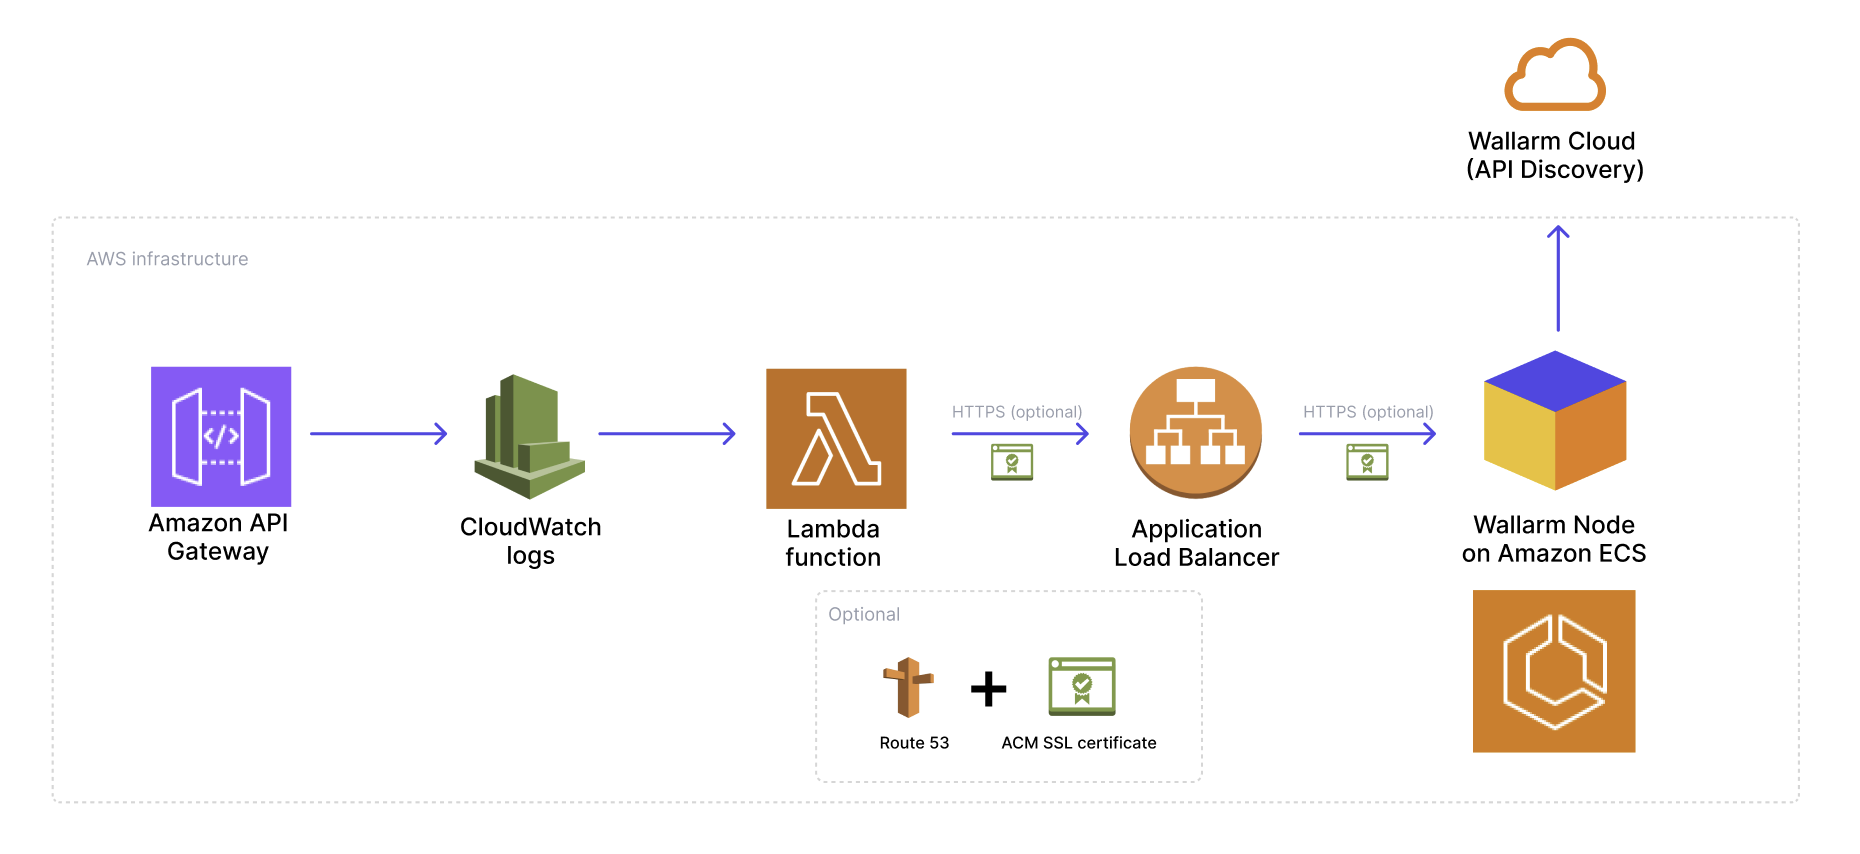
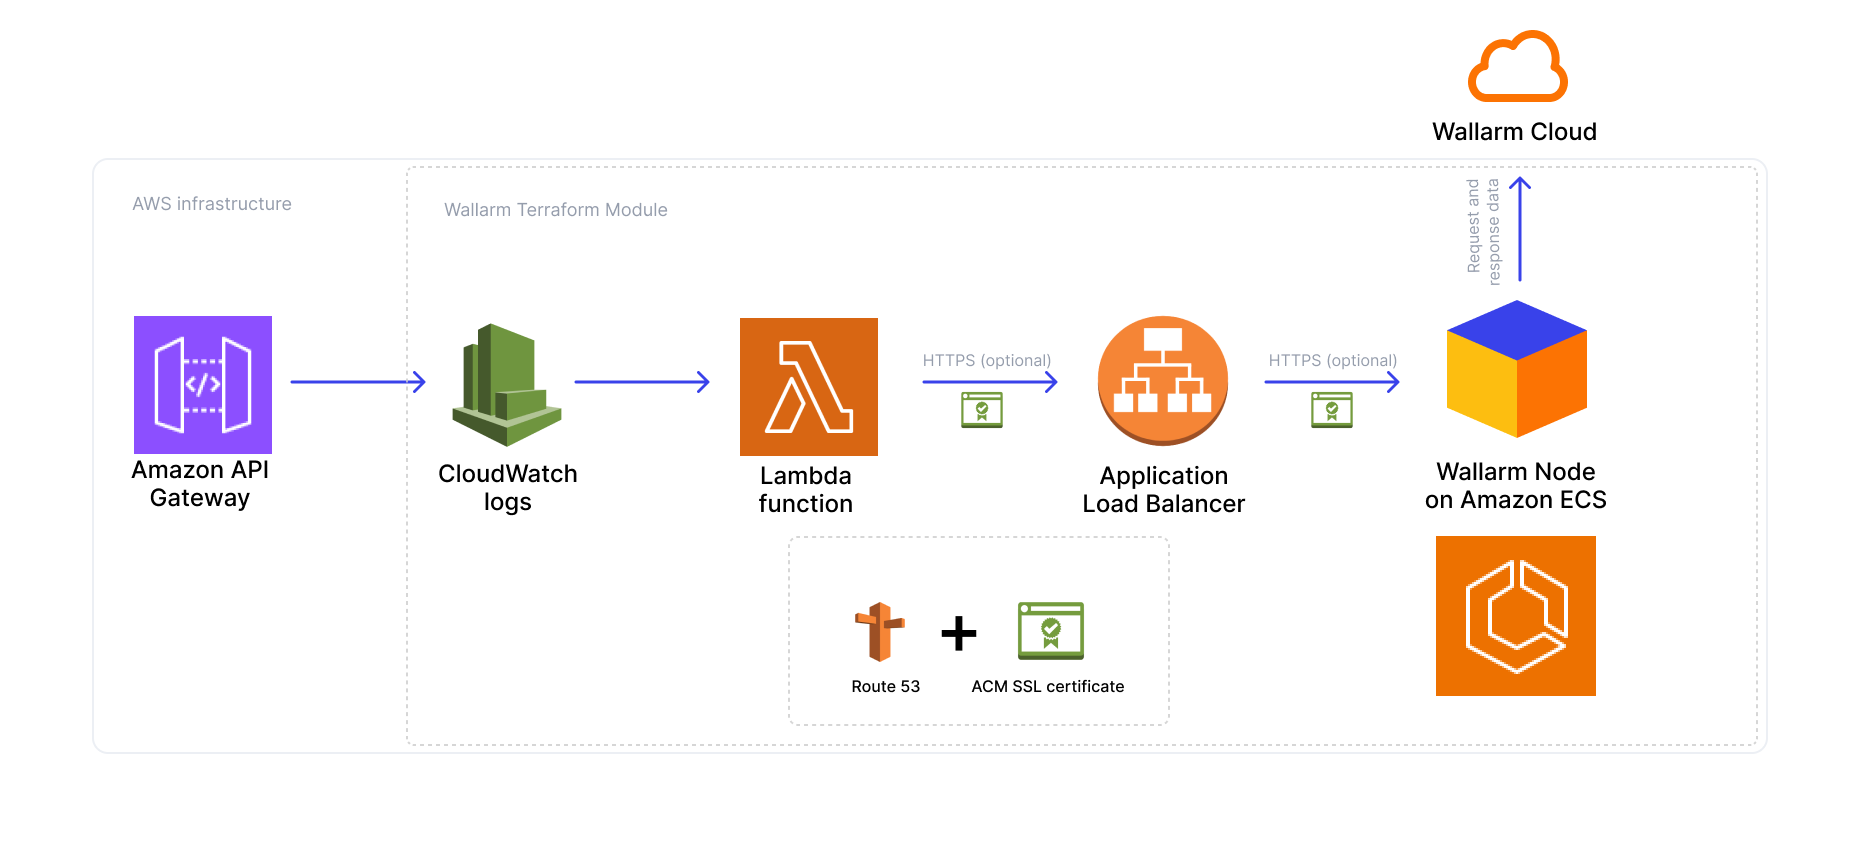
DOCS-3553 Fixed according to the comments

diff --git a/docs/latest/installation/connectors/aws-api-gateway.md b/docs/latest/installation/connectors/aws-api-gateway.md
@@ -1,6 +1,10 @@
 [api-discovery]:                ../../api-discovery/overview.md
 [api-inventory]:                ../../api-discovery/exploring.md
-[api-traffic]:                ../../api-discovery/overview.md#noise-detection
+[api-traffic]:                 ../../api-discovery/overview.md#noise-detection
+[native-node]:                 ../../installation/nginx-native-node-internals.md#native-node
+[native-node-versions]:        ../../updating-migrating/native-node/node-artifact-versions.md
+[native-node-logs]:           ../../admin-en/configure-logging.md
+
 
 # Wallarm Connector for Amazon API Gateway (API Discovery)
 
@@ -8,37 +12,51 @@ The Wallarm Connector for Amazon API Gateway automatically builds an [API invent
 
 ## How it works
 
-This connector does not inspect or block malicious requests. Instead, it uses a Lambda function to monitor CloudWatch logs from API Gateway, parse the log data, and forward relevant metadata to a Wallarm Native Node running on [Amazon Elastic Container Service](https://docs.aws.amazon.com/AmazonECS/latest/developerguide/Welcome.html) (Amazon ECS). The result is your API inventory.
+This connector does not inspect or block malicious requests. Instead, it uses a Lambda function to monitor CloudWatch logs from API Gateway, parse the log data, and forward relevant metadata to a Wallarm Native Node running on [Amazon Elastic Container Service](https://docs.aws.amazon.com/AmazonECS/latest/developerguide/Welcome.html) (Amazon ECS). The result is your [**API inventory**][api-inventory].
 
-The Terraform configuration deploys the Lambda function with [Amazon CloudWatch](https://docs.aws.amazon.com/AmazonCloudWatch/latest/logs/WhatIsCloudWatchLogs.html) log monitoring and the Native Node.
+## Terraform deployment
+
+The Terraform configuration automatically deploys all AWS resources required for the Wallarm Connector for Amazon API Gateway. It sets up a complete environment that connects Amazon API Gateway logs to the Wallarm Native Node for API Discovery.
 
 ![Amazon API Gateway diagram](../../images/waf-installation/gateways/aws-api-discovery/aws-api-gateway.png)
 
-Native Node:
+### Wallarm Native Node in ECS
 
-* Is deployed on Amazon ECS using the EC2 launch type
-* Is configured within a VPC containing public and private subnets
-* Is set up with an [Application Load Balancer](https://docs.aws.amazon.com/elasticloadbalancing/latest/application/introduction.html) (ALB)
-* (Optional) Can be configured with Route 53 DNS records
+Terraform deploys a [Wallarm Native Node][native-node] as an ECS service.  
+Key components include:
 
-[Lambda function](https://docs.aws.amazon.com/lambda/latest/dg/concepts-basics.html) (`cw-resend-lambda/`):
+* VPC integration – the Node runs in private subnets within a VPC that also contains public subnets for the [Application Load Balancer](https://docs.aws.amazon.com/elasticloadbalancing/latest/application/introduction.html) (ALB)
+* ECS Cluster – manages the containerized Node workload  
+* ECS Service – runs the Node container image (`wallarm/node-native-aio`) using the EC2 launch type  
+* Application Load Balancer (ALB) – exposes the Node endpoint via HTTPS and routes requests from the Lambda function to ECS tasks  
+* ACM Certificate – provides TLS encryption for the ALB endpoint  
+* (Optional) Route 53 Record  – assigns a DNS name to the ALB for easier access  
+* AWS Cloud Map (Service Discovery) – enables internal name resolution for the Node service within the VPC
 
-* Creates a CloudWatch log processing Lambda function
-* Monitors CloudWatch log groups containing [API Gateway access logs](https://docs.aws.amazon.com/apigateway/latest/developerguide/set-up-logging.html)
-* Configures IAM permissions for CloudWatch Logs access
-* Processes and parses log data
-* Forwards the processed metadata to the Wallarm Native Node
+### AWS Lambda for log processing
+
+Terraform creates a [Lambda function](https://docs.aws.amazon.com/lambda/latest/dg/concepts-basics.html) (`cw-resend-lambda/`) that:
+
+* Subscribes to Amazon CloudWatch Logs from [API Gateway](https://docs.aws.amazon.com/apigateway/latest/developerguide/set-up-logging.html)
+* Parses API Gateway log entries and extracts API metadata  
+* Forwards structured metadata to the Wallarm Node via the ALB  
 * Configures the following environment variables for Node communication:
+    * `X_WALLARM_APPLICATION_ID` — Wallarm Application ID  
+    * `X_NODE_URL` — Native Node ALB DNS name  
+    * `X_NODE_SCHEME` — Native Node protocol (HTTP or HTTPS)
 
-    * `X_WALLARM_APPLICATION_ID` - Wallarm Application ID
-    * `X_NODE_URL` - Native Node ALB DNS name
-    * `X_NODE_SCHEME` - Native Node ALB protocol (HTTP or HTTPS)
+All IAM roles and permissions required for Lambda execution and CloudWatch access are automatically provisioned. 
 
-CloudWatch:
+### CloudWatch log delivery integration
 
-* Creates or uses an existing CloudWatch log group for API Gateway
-* Sets up a log subscription filter to forward logs to the Lambda function
+Terraform configures CloudWatch to serve as the communication channel between API Gateway and the Lambda function:
+
+* Creates or reuses a CloudWatch log group for API Gateway  
+* Adds a log subscription filter to stream new log events to the Lambda function
+* Grants permissions for CloudWatch to invoke the Lambda function
 * Configures IAM permissions for log processing
+
+This enables near real-time delivery of API Gateway traffic logs for processing.
 
 ## Limitations
 
@@ -46,12 +64,12 @@ At the moment, this connector does not detect or monitor attacks. Its primary pu
 
 ## Requirements
 
-To proceed with the deployment, ensure that you meet the following requirements:
+To proceed with the deployment, ensure that the following requirements are met:
 
 * API deployed in Amazon API Gateway
 * Understanding of AWS CloudFront and Amazon API Gateway technologies
-* AWS CLI configured with the necessary permissions
-* Native Node version 0.20.0 or later
+* [AWS CLI](https://docs.aws.amazon.com/cli/latest/userguide/cli-chap-getting-started.html) configured with the necessary permissions
+* [Native Node version 0.20.0 or later][native-node-versions]
 * Terraform version 1.0 or later
 
 ## Deployment
@@ -189,7 +207,7 @@ Go to the AWS Management Console and [create the following IAM policy](https://d
 
 ### 3. Deploy Terraform
 
-1. Contact sales@wallarm.com to get the connector.
+1. Contact sales@wallarm.com to get the Terraform configuration for the connector.
 1. Copy the `terraform.tfvars` example file:
 
     ```
@@ -202,7 +220,7 @@ Go to the AWS Management Console and [create the following IAM policy](https://d
 
     | Variable | Description | Default | 
     | --------- | ----------- | --------- |
-    | `wallarm_api_host` | Wallarm API server. | `api.wallarm.com` | 
+    | `wallarm_api_host` | Wallarm API server:<ul><li>`us1.api.wallarm.com` for the US Cloud</li><li>`api.wallarm.com` for the EU Cloud</li></ul> | `api.wallarm.com` | 
     | `wallarm_api_token` | Wallarm API token [created in Step 1](#1-prepare-a-wallarm-token). | `your-token-here` | 
     | `x_wallarm_application_id` | [Wallarm application ID](../../user-guides/settings/applications.md). | `-1` | 
    
@@ -210,11 +228,11 @@ Go to the AWS Management Console and [create the following IAM policy](https://d
 
     | Variable | Description | Default | 
     | --------- | ----------- | --------- |
-    | `region` | [AWS region](https://docs.aws.amazon.com/global-infrastructure/latest/regions/aws-regions.html). | `us-east-1` | 
+    | `region` | [AWS region](https://docs.aws.amazon.com/global-infrastructure/latest/regions/aws-regions.html) where all resources will be deployed. | `us-east-1` | 
     | `name_prefix` | Resource name prefix (maximum 38 characters). | `api-gw-discovery` |
     | `node_image` | Docker image for the Native Node. | `wallarm/node-native-aio` | 
     | `node_tag` | Docker image tag. | `latest` | 
-    | `node_group` | Node group identifier. | `""` | 
+    | `node_group` | Node group identifier. | `api-gateway-api-discovery` | 
     | `r53_domain_name` | To enable secure HTTPS communication between AWS Lambda and the Native Node, define the [Amazon Route 53 domain name](https://docs.aws.amazon.com/Route53/latest/DeveloperGuide/domain-register.html). When both `r53_domain_name` and `node_dns_name` are set, AWS Lambda will automatically use HTTPS to communicate with the Native Node using the configured domain name. An [ACM SSL certificate](https://docs.aws.amazon.com/acm/latest/userguide/acm-overview.html) will be automatically created and configured for the domain. | `""` | 
     | `node_dns_name` | To enable secure HTTPS communication between AWS Lambda and the Native Node, define the Node DNS record name. When both `r53_domain_name` and `node_dns_name` are set, AWS Lambda will automatically use HTTPS to communicate with the Native Node using the configured domain name. An [ACM SSL certificate](https://docs.aws.amazon.com/acm/latest/userguide/acm-overview.html) will be automatically created and configured for the domain.  | `""` | 
     | `api_gateway_log_group_name` | [Log group](https://docs.aws.amazon.com/apigateway/latest/developerguide/set-up-logging.html) created by Amazon API Gateway for your API. | `""` | 
@@ -236,9 +254,9 @@ Go to the AWS Management Console and [create the following IAM policy](https://d
 1. [Go to the API Gateway console](https://console.aws.amazon.com/apigateway).
 1. In the main navigation panel, choose **APIs**, and then click the name of your API.
 1. Go to **Stages** → your stage (e.g., `prod`), scroll down to the **Logs and tracing** section, and then click **Edit**.
-1. Under "CloudWatch logs", select "Errors and info logs" and toggle on "Custom access logging".
-1. Under "Access log destination ARN", paste the `api_gateway_log_group_arn` copied in the previous step.
-1. In the "Log format" section, paste the following JSON log format (optimized to include only essential fields):
+1. Under **CloudWatch logs**, select **Errors and info logs** and toggle on **Custom access logging**.
+1. Under **Access log destination ARN**, paste the `api_gateway_log_group_arn` copied in the previous step.
+1. In the **Log format** section, paste the following JSON log format (optimized to include only essential fields):
 
     ```json
     { "requestId": "$context.requestId", "httpMethod": "$context.httpMethod", "path": "$context.path", "protocol": "$context.protocol", "status": "$context.status", "responseLength": "$context.responseLength", "requestTime": "$context.requestTime", "requestTimeEpoch": "$context.requestTimeEpoch", "responseLatency": "$context.responseLatency", "integrationLatency": "$context.integrationLatency", "integrationStatus": "$context.integrationStatus", "errorMessage": "$context.error.message", "stage": "$context.stage", "domainName": "$context.domainName", "sourceIp": "$context.identity.sourceIp", "userAgent": "$context.identity.userAgent" }
@@ -248,13 +266,15 @@ Go to the AWS Management Console and [create the following IAM policy](https://d
 
 [See more details on configuring CloudWatch API logging using the API Gateway console](https://docs.aws.amazon.com/apigateway/latest/developerguide/set-up-logging.html#set-up-access-logging-using-console).
 
-### 5. Check the API Discovery dashboard
+### 5. Check the API Discovery inventory
 
 If the infrastructure was deployed correctly, the [API Discovery][api-discovery] feature is automatically enabled.
 
 Generate traffic to your API endpoints (e.g., using `curl`) to build the [API inventory][api-inventory] and populate the API Discovery dashboard.
 
 Wallarm builds the API inventory only after receiving a [sufficient number of requests for each endpoint][api-traffic].
+
+![Amazon API Gateway inventory](../../images/waf-installation/gateways/aws-api-discovery/aws-api-gateway-inventory.png)
 
 If you have any issues, refer to the ["Logs and troubleshooting" section](#logs-and-troubleshooting).
 
@@ -271,7 +291,7 @@ See common issues and their corresponding troubleshooting solutions below:
 * The Native Node is not accessible:
 
     * Check the ECS service status
-    * Check the Native Node logs
+    * [Check the Native Node logs][native-node-logs]
     * Verify [Application Load Balancer health checks](https://docs.aws.amazon.com/elasticloadbalancing/latest/application/target-group-health-checks.html)
     * Check the security group rules
 
